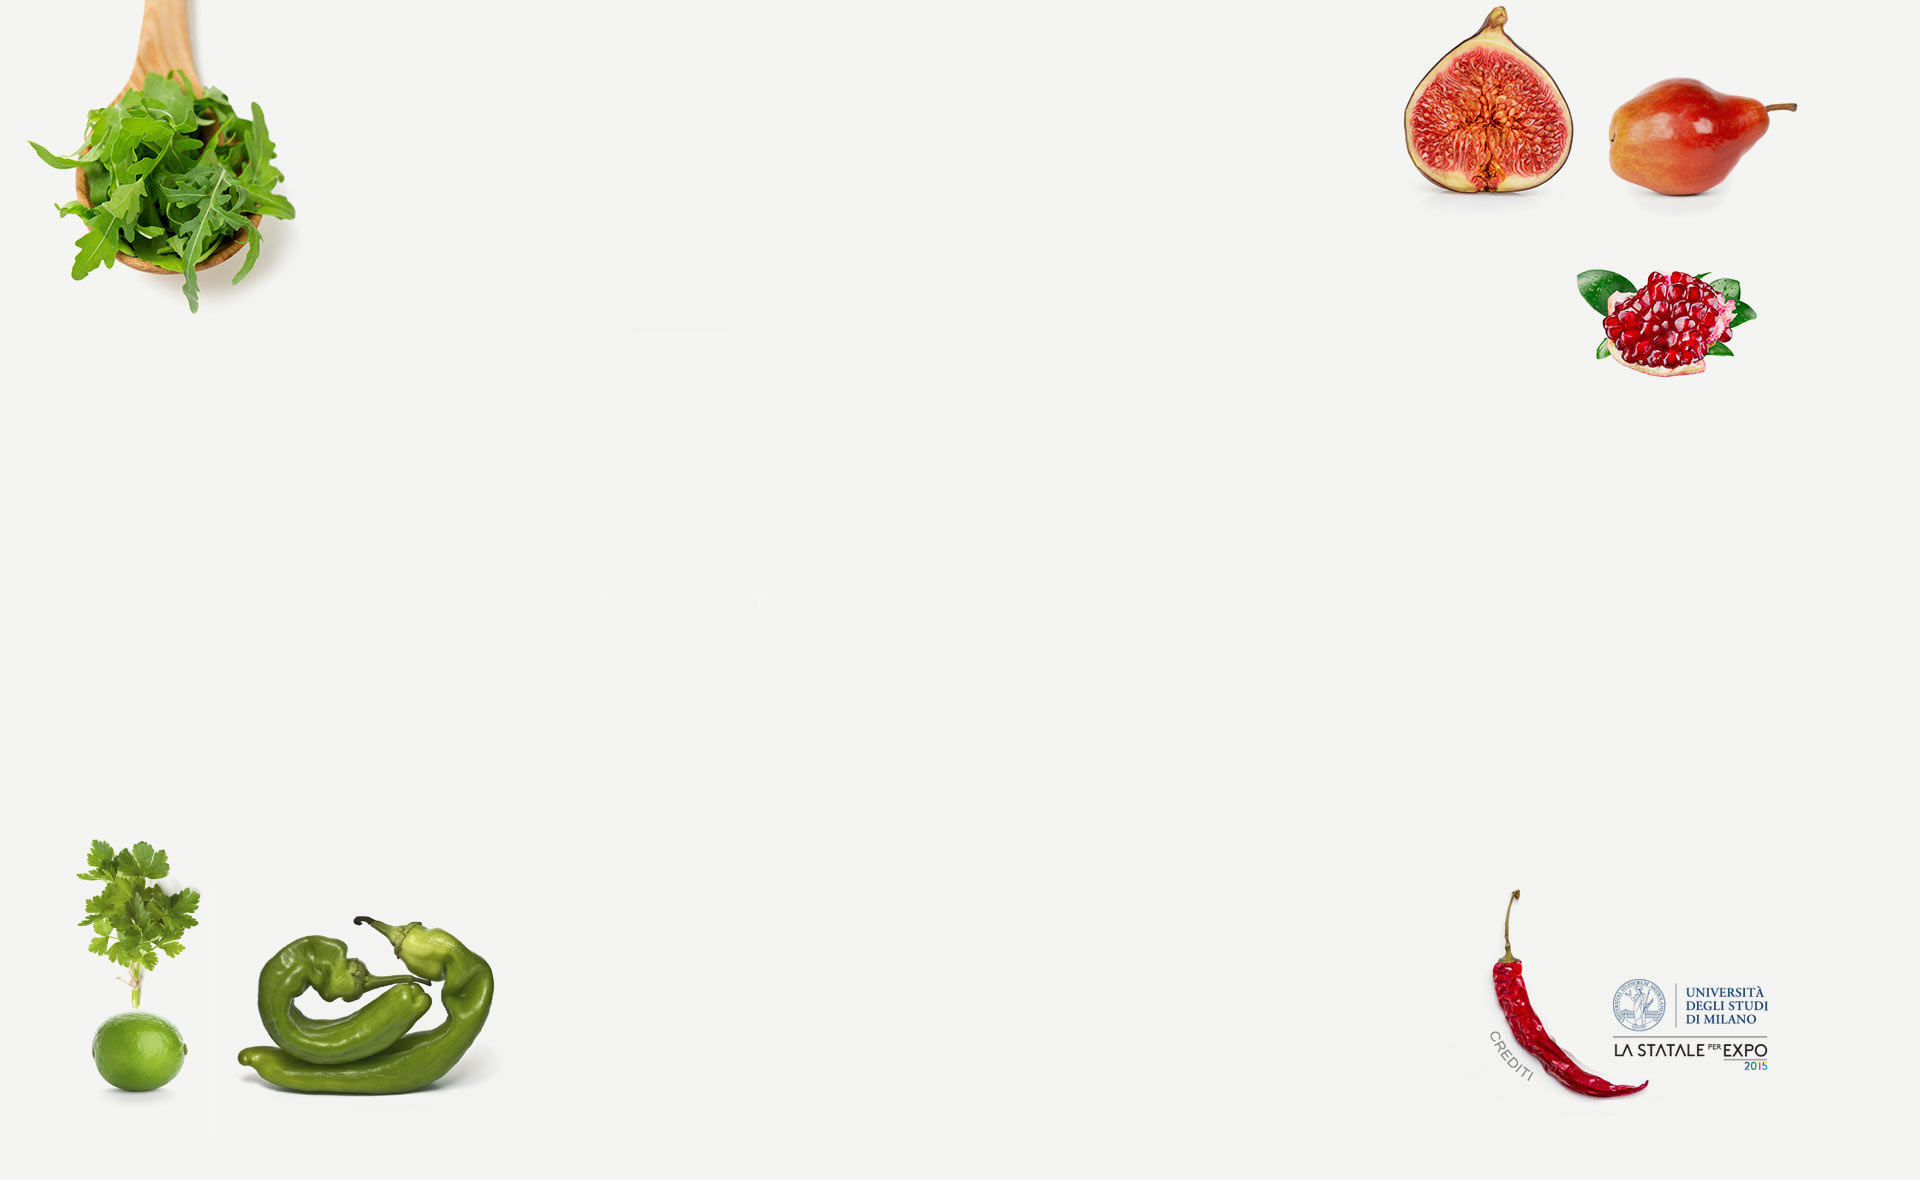
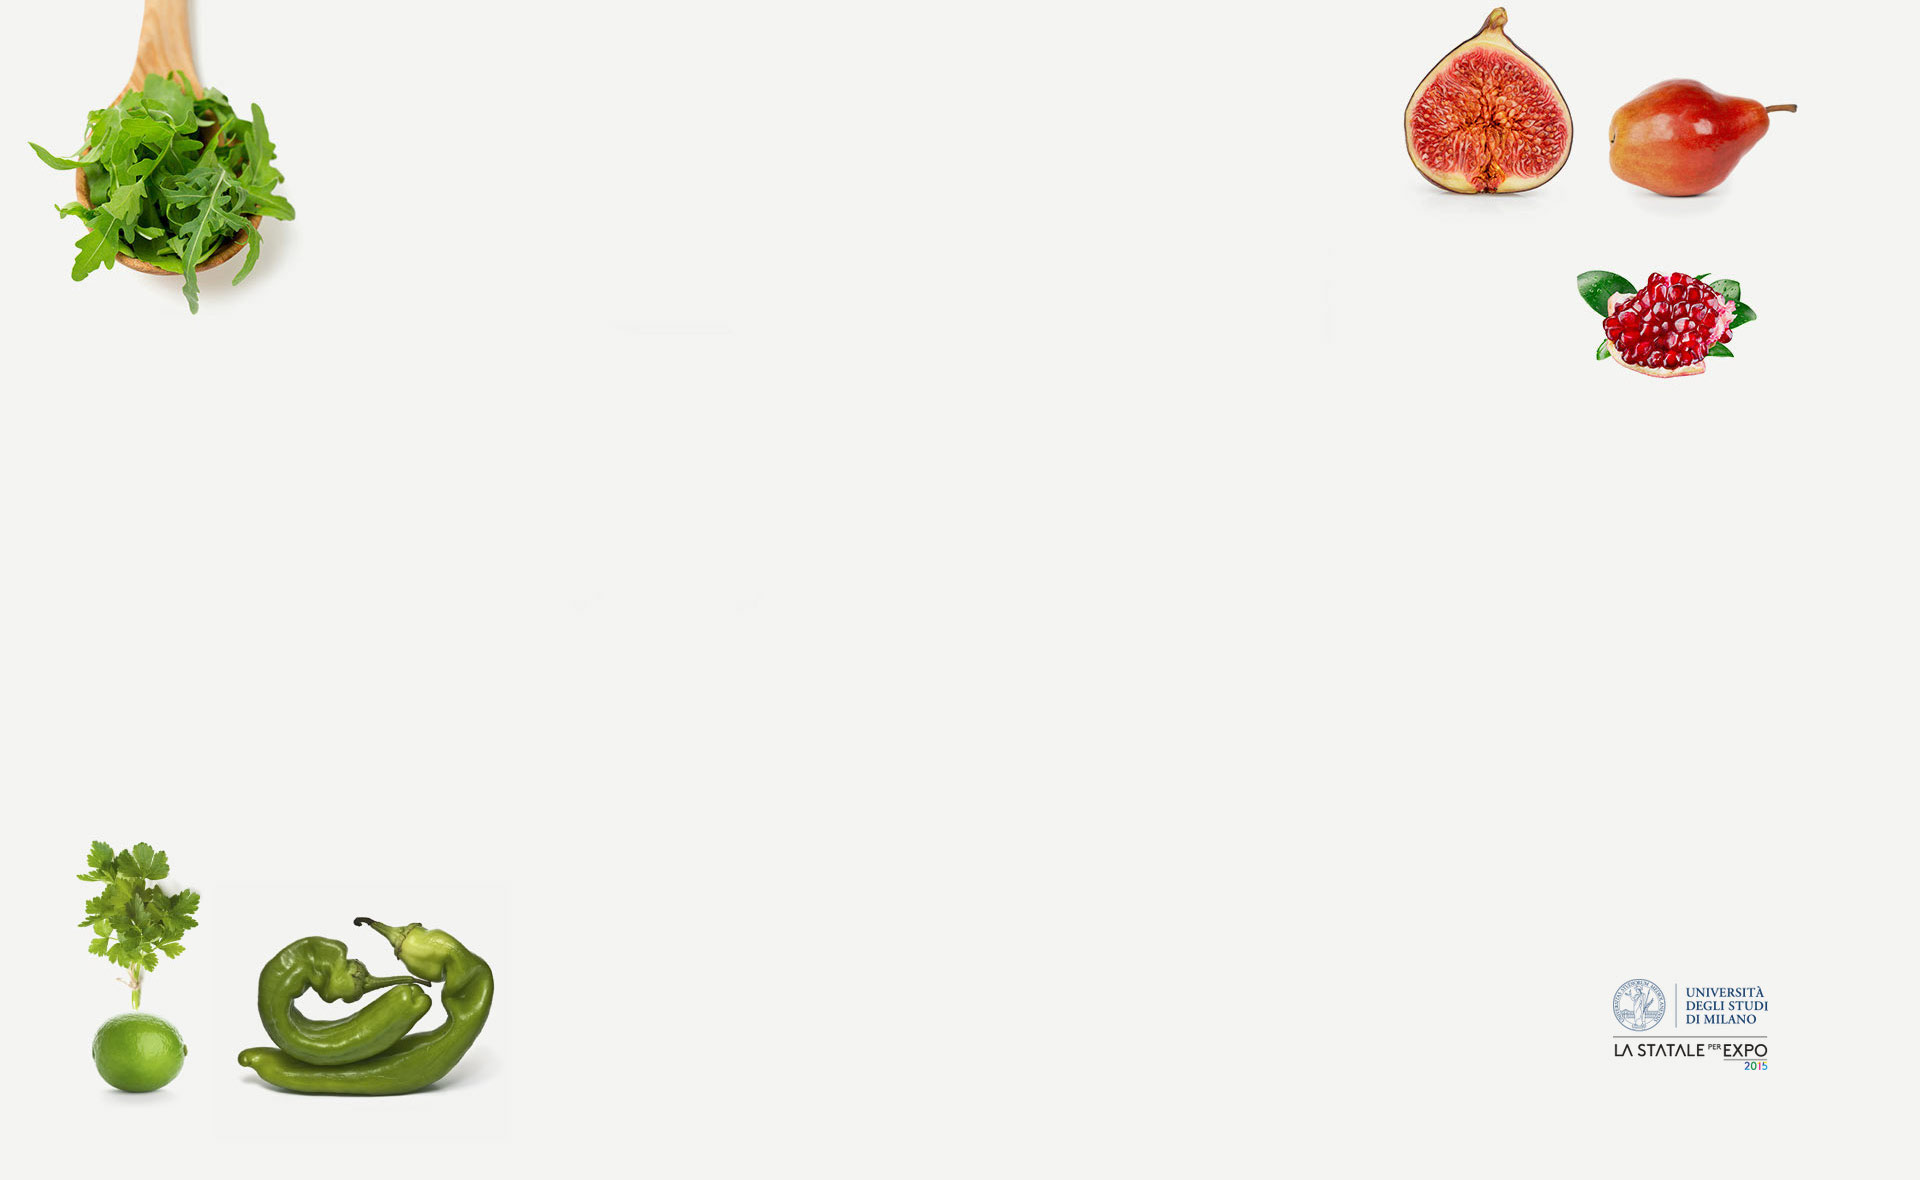
bottone credits

diff --git a/app/views/main.html b/app/views/main.html
@@ -1,8 +1,10 @@
   <div class="row cover">
-    <a href="" class="credits"></a>
+    <a href="" class="credits">
+      <img src="images/bot_credits.png">
+    </a>
     <div class="container" onselectstart="return false;">
       <div id="parallax">
-        <div class="panel">
+        <div class="panel" style="box-shadow: 0 !important;">
           <ul class="lang ui" id="lang">
             <li class="ita{{ languageSel === 'ita' ? ' active' : '' }}"><a ng-click="changeLanguage('ita')">Italiano</a></li>
             <li class="eng{{ languageSel === 'eng' ? ' active' : '' }}"><a ng-click="changeLanguage('eng')">English</a></li>
@@ -95,7 +97,7 @@
             <h4>Contenuti:</h4>
             Accademia della Crusca: sezione <strong>cucina</strong><br>
             di<br><a>www.VIV-it.org</a><br>
-            <img src="images/QR-vivit.png" class="QR-vivit"><br>
+            <img src="images/QR-vivit.png" class="QR-vivit"><br><br>
             a cura di Giovanna Frosini,  Marzia Caria, Anna Colia <br>
             (pagina 7 <em>Il lessico della gastronomia</em>; 7.1 <em>Geosinonimi  e dialettismiculinari</em>; 7.2 <em>Italianismi gastronomici</em>).<br><br>
             La maggior parte dei dati proviene da un progetto di un <strong><em>Dizionario  di italianismi nel mondo</em></strong>,<br>
@@ -222,7 +224,7 @@
             <strong>Progetto grafico e userinterface: </strong>Aleco
             <hr>
           </div>
-          <div class="cominciare logo">
+          <div class="cominciare torna logo">
             <img src="images/left_arrow.gif" class="arrow_top">
             <div>Torna</div>
           </div>

diff --git a/app/views/card.html b/app/views/card.html
@@ -19,13 +19,14 @@
 										<div class=" col-md-offset-2 col-md-4 left">
 											<label ng-bind-html="languageMap.cardSentence2[languageSel]"></label>
 											<h1 ng-bind="term.termIta"></h1>
+											<span ng-if="term.termIta2"><i ng-bind="term.termIta2"></i></span>
 											<p ng-bind="term.descIta"></p>
 										</div>
 										<div class="col-md-4 right">
 											<label ng-bind-html="languageMap.cardSentence3[languageSel]"></label>
 											<h1><strong ng-bind="language.term"></strong></h1>
-											<p ng-if="language.otherTerms" style="height: auto !important;; min-height: auto !important;"><i ng-bind="language.otherTerms"></i></p>
-											<p ng-if="language.desc" ng-bind="language.desc" style="height: auto !important; min-height: auto !important;"></p>
+											<p ng-if="language.otherTerms"><i ng-bind="language.otherTerms"></i></p>
+											<p ng-if="language.desc" ng-bind="language.desc"></p>
 										</div>
 										<!--hr-->
 										<div class="col-md-12 contenuto">

diff --git a/app/styles/main.scss b/app/styles/main.scss
@@ -240,7 +240,7 @@ body {
   margin: 0;
   padding: 0;
   text-align: center;
-  background:url('../images/bk.jpg');
+  background:#f4f4f2;
 
   .container-fluid{
     margin:0;
@@ -302,6 +302,7 @@ body {
       margin-bottom: 60px;
       &.cominciare{
         float:none !important;
+        display: inline-block;
       }
     } 
 
@@ -357,8 +358,8 @@ body {
     width: 285px;
     position: absolute;
     z-index: 100;
-    bottom: 30px;
-    right: 146px;
+    bottom: 47px;
+    right: 180px;
   }
 
   .cover_layer{
